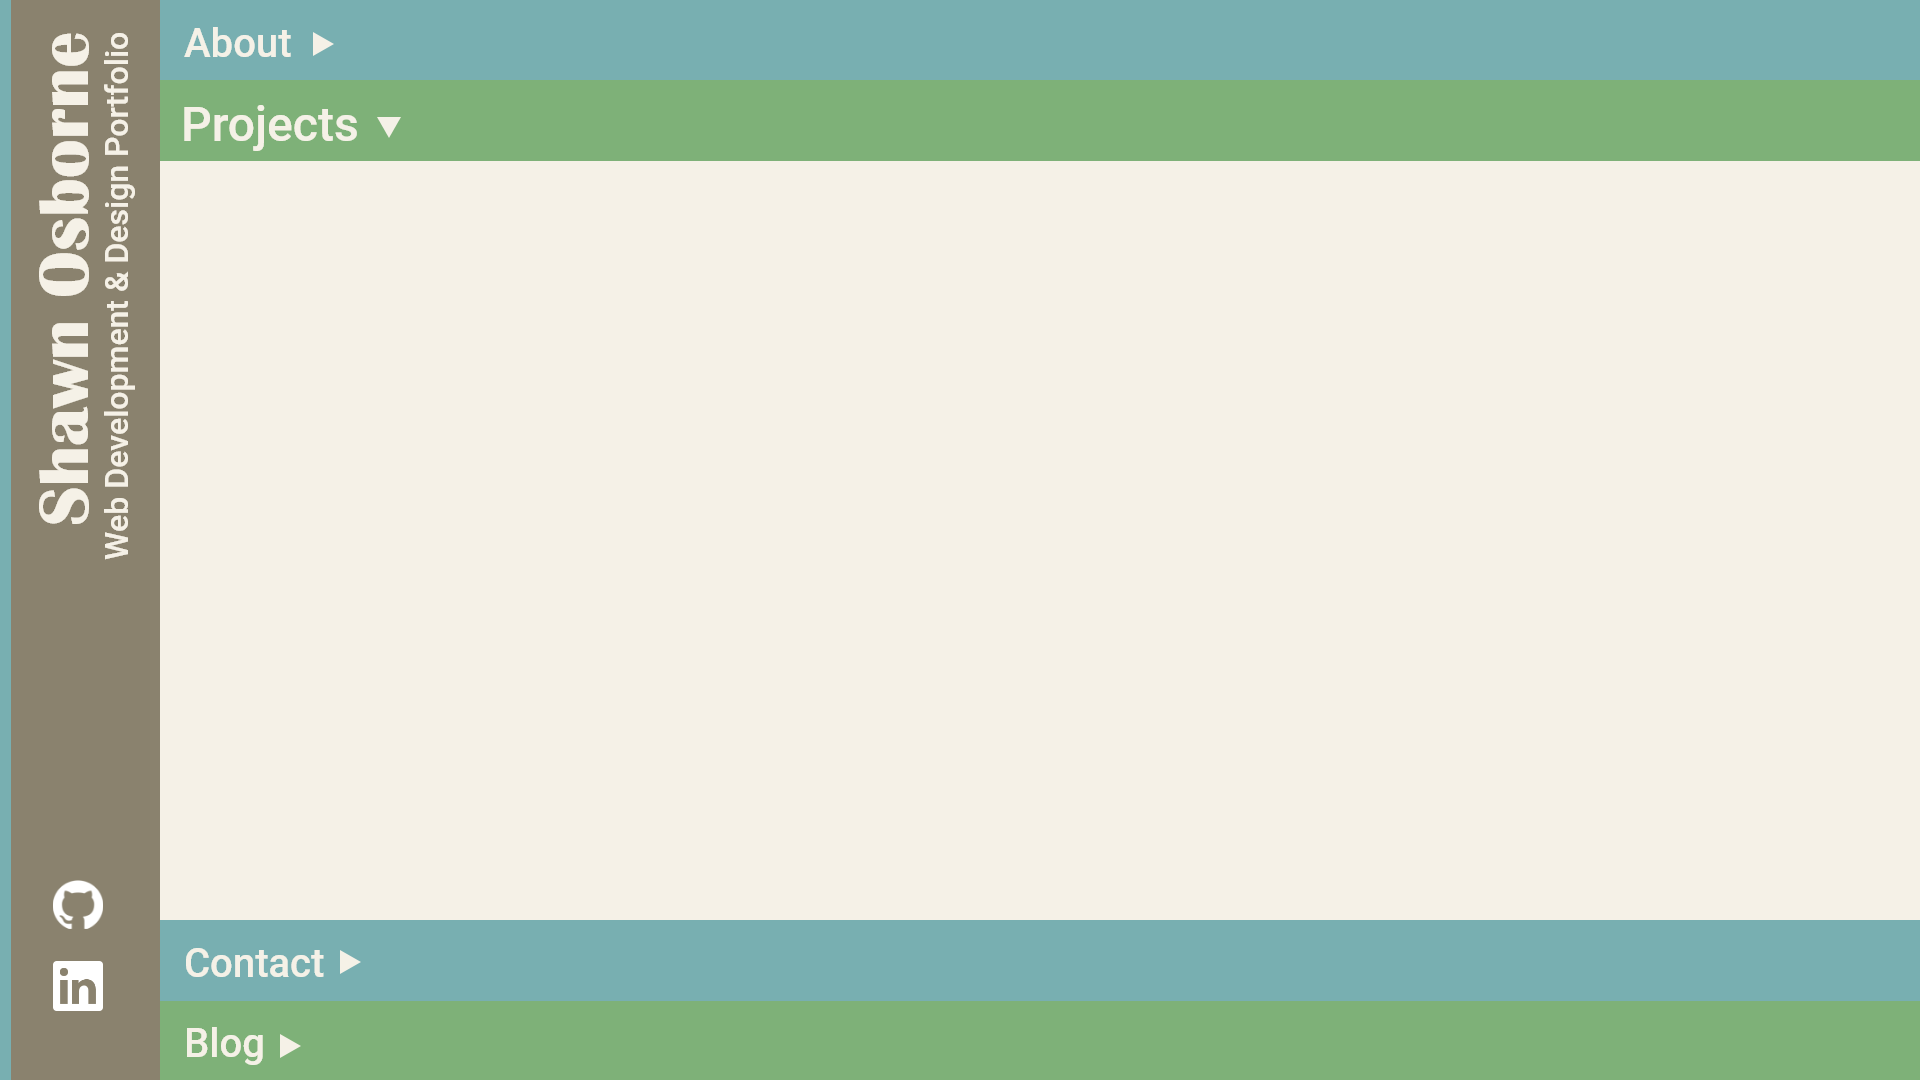
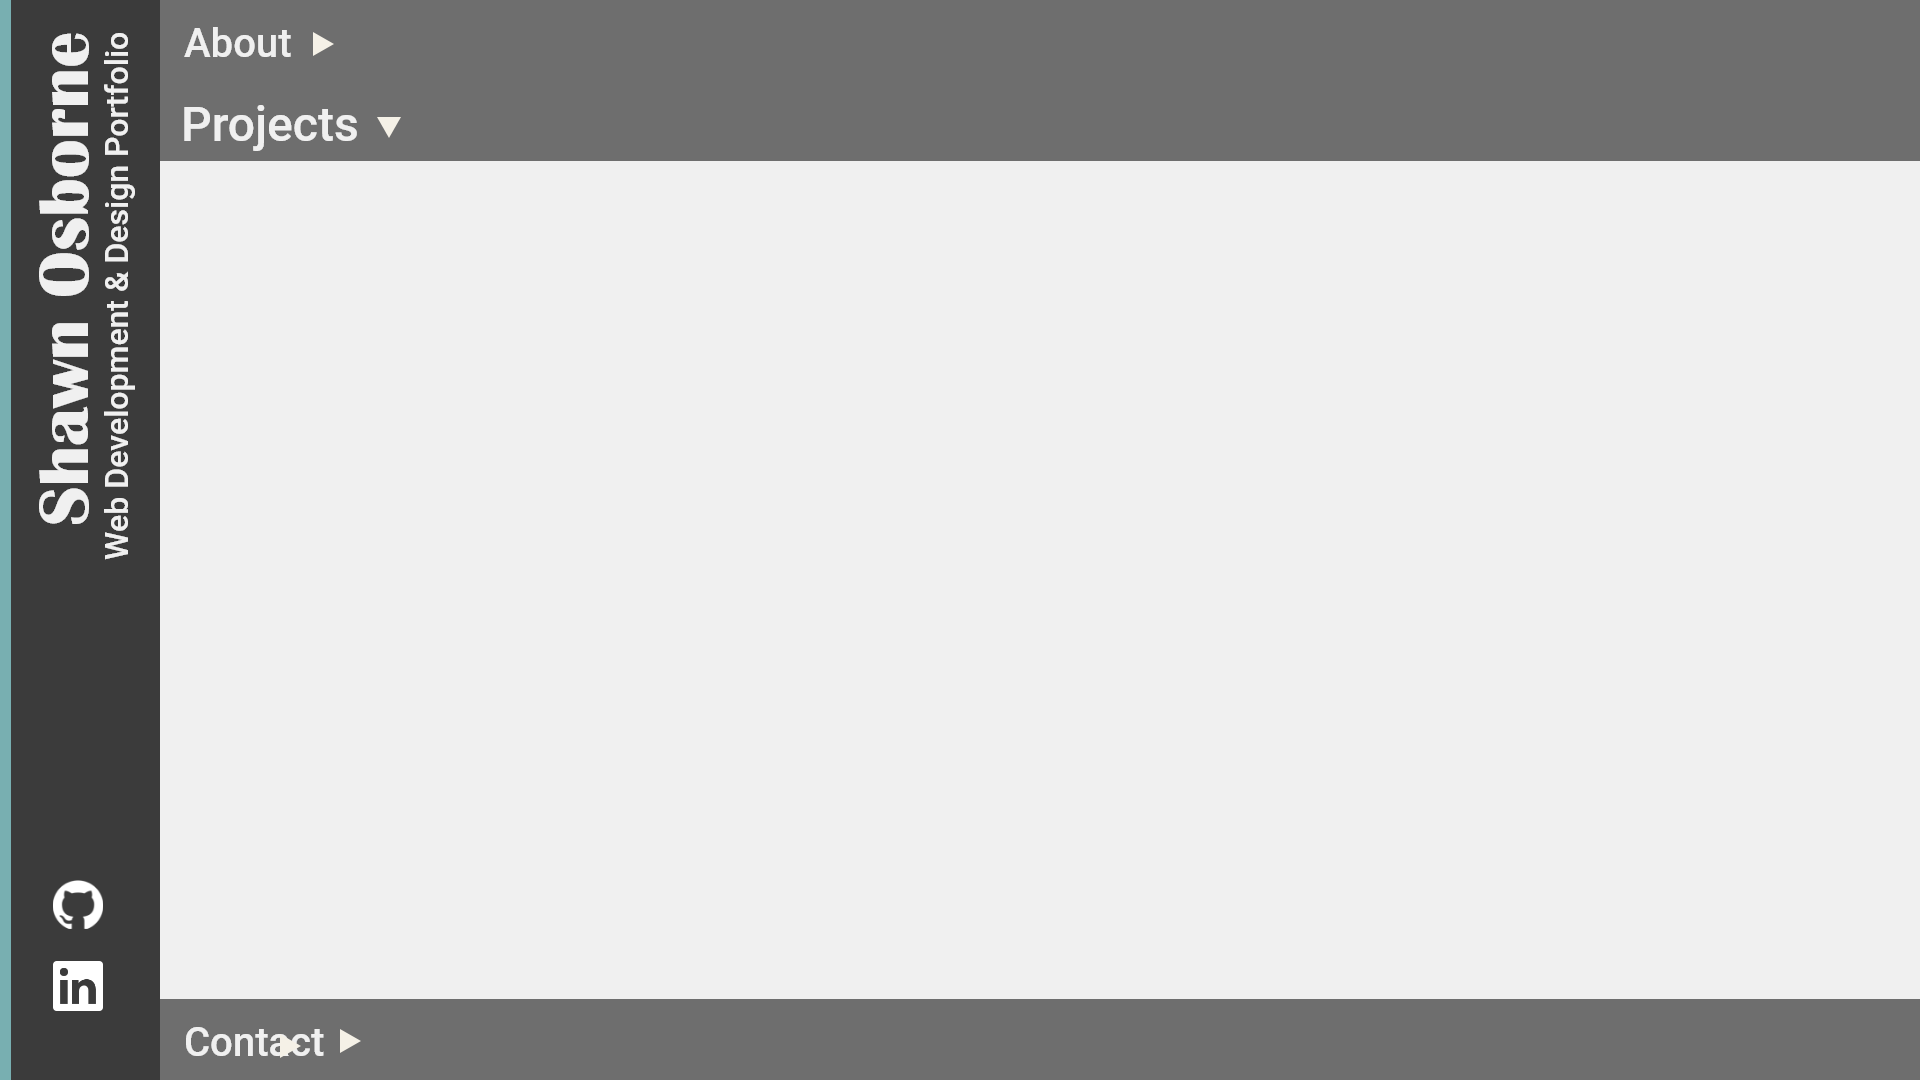
messing with colors

diff --git a/style.css b/style.css
@@ -1,9 +1,8 @@
 :root {
-    --mainBg: #F5F1E7;
-    --secondBg: #8A826E;
-    --myBlue: #78AFB1;
-    --myGreen: #7EB178;
-    --darkGrey: #333;
+    --popGreen: #B9FF08;
+    --dark: #3B3B3B;
+    --med: #6E6E6E;
+    --light: #F0F0F0;
 }
 
 * {
@@ -14,8 +13,8 @@
 
 body {
     height: 100vh;
-    background-color: var(--mainBg);
     display: grid;
+    background-color: var(--light);
     grid-template-areas:
         "head main main main"
         "head main main main"
@@ -24,12 +23,12 @@ body {
 }
 
 header {
-    background-color: var(--secondBg);
-    color: var(--mainBg);
+    background-color: var(--dark);
+    color: var(--popGreen);
     display: flex;
     justify-content: center;
-    align-items: right;
-    padding: 0 1rem 2rem 0.5rem;
+    text-align: right;
+    padding: 2rem 1rem 2rem 0.5rem;
     box-shadow: 0.25rem 0 0.5rem rgba(0, 0, 0, 0.3);
     z-index: 2;
     grid-area: head;
@@ -37,11 +36,12 @@ header {
 
 header h1 {
     font-family: 'Abril Fatface', cursive;
-    font-size: clamp(3rem, 5vw, 5rem);
+    font-size: clamp(2.5rem, 4vw, 3rem);
 }
 
 header h2 {
-    font-size: clamp(1.5rem, 2.5vw, 2.5rem); 
+    font-size: clamp(1.25rem, 2vw, 1.5rem); 
+    color: var(--med);
 }
 
 header h1, header h2 {
@@ -62,14 +62,14 @@ main {
 }
 
 .collBtn {
+    background-color: var(--med);
+    color: var(--light);
     display: flex;
-    justify-content: left;
+    justify-content: space-between;
     align-items: center;
-    background-color: var(--myBlue);
-    color: var(--mainBg);
-    font-size: 1.5rem;
+    font-size: clamp(1rem, 1.7vw, 1.5rem); 
     padding: 0.25rem 1rem 0.25rem 3rem;
-    transition: flex 0.3s ease-in-out, transform 0.3s ease-in-out;
+    transition: flex 0.2s ease-in-out;
     flex: 1;
 }
 
@@ -79,11 +79,17 @@ main {
     font-size: 3rem;
     position: relative;
     bottom: 0.2rem;
-    transition: transform 0.2s ease-in-out;
+    right: 2rem;
+    opacity: 0.5;
+    transition: transform 0.2s ease-in-out, opacity 0.2s ease-in-out;
+}
+
+.collBtn i {
+    padding: 0 0.5rem 0 0;
 }
 
 .collBtn:nth-of-type(even) {
-    background-color: var(--myGreen);
+    background-color: var(--med);
 }
 
 .collBtn:last-of-type {
@@ -92,11 +98,13 @@ main {
 
 .collBtn:hover {
     cursor: pointer;
+    justify-content: space-between;
 }
 
 .collBtn:hover::after {
-    transform: translate(2rem, 0);
-    transition: transform 0.3s ease-in-out;
+    transform: translate(1rem, 0) scale(1.15);
+    color: var(--popGreen);
+    opacity: 1;
 }
 
 .content {
@@ -105,28 +113,22 @@ main {
     overflow: hidden;
     transition: max-height 0.3s ease-in-out, margin 0.3s ease-in-out, padding 0.3s ease-in-out, opacity 0.3s ease-in-out;
     font-size: 16px;
-    padding: 0;
 }
 
 .content p {
-    padding: 0.15rem 0.5rem 0.15rem 0;
+    padding: 0.15rem 0;
 }
 
-.activeBtn, .activeBtn:nth-of-type(even) {
-    flex: 1;
-}
-
-.activeBtn:after {
-    transform: rotate(90deg) translate(8px, -8px) scale(1.5);
-}
-
-.activeBtn:hover::after {
-    transform: rotate(90deg) translate(8px, -8px) scale(1.5);
+.activeBtn:after, .activeBtn:hover::after {
+    transform: rotate(90deg) translate(8px, -8px) scale(1.25);
+    color: var(--popGreen);
+    opacity: 1;
 }
 
 .activeContent {
     overflow-y: scroll;
-    margin: 0 1rem 1rem 3rem;
-    padding: 1rem 0;
+    margin: 1rem;
+    padding: 1rem;
     opacity: 1;
+    color: var(--dark);
 }

diff --git a/index.html b/index.html
@@ -21,7 +21,7 @@
 
     <main>
 
-        <div class="collBtn" id="aboutBtn"><h3><i class="fa-solid fa-user"></i> About Me</h3></div>
+        <div class="collBtn" id="aboutBtn"><h3><i class="fa-solid fa-user"></i>About Me</h3></div>
 
         <section class="content" id="About">
             <h4>Work in progress...</h4>
